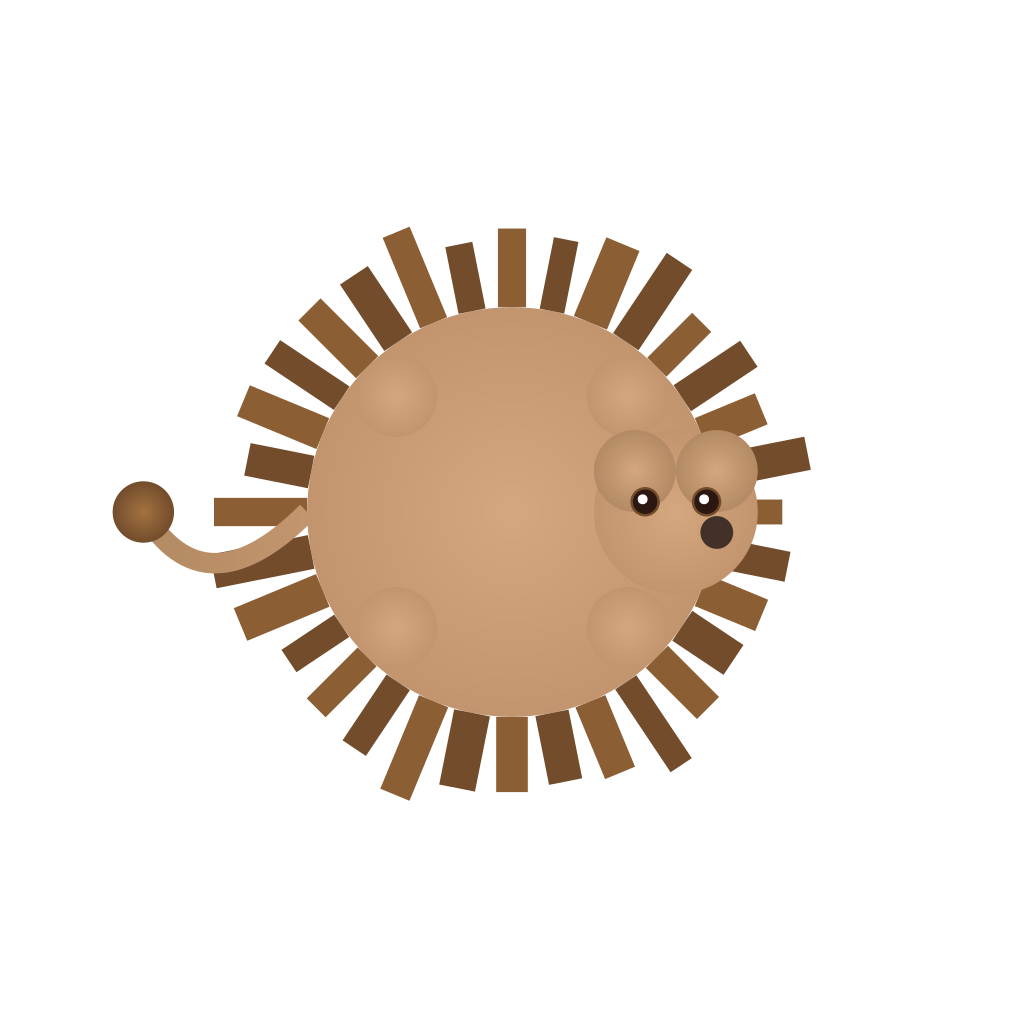
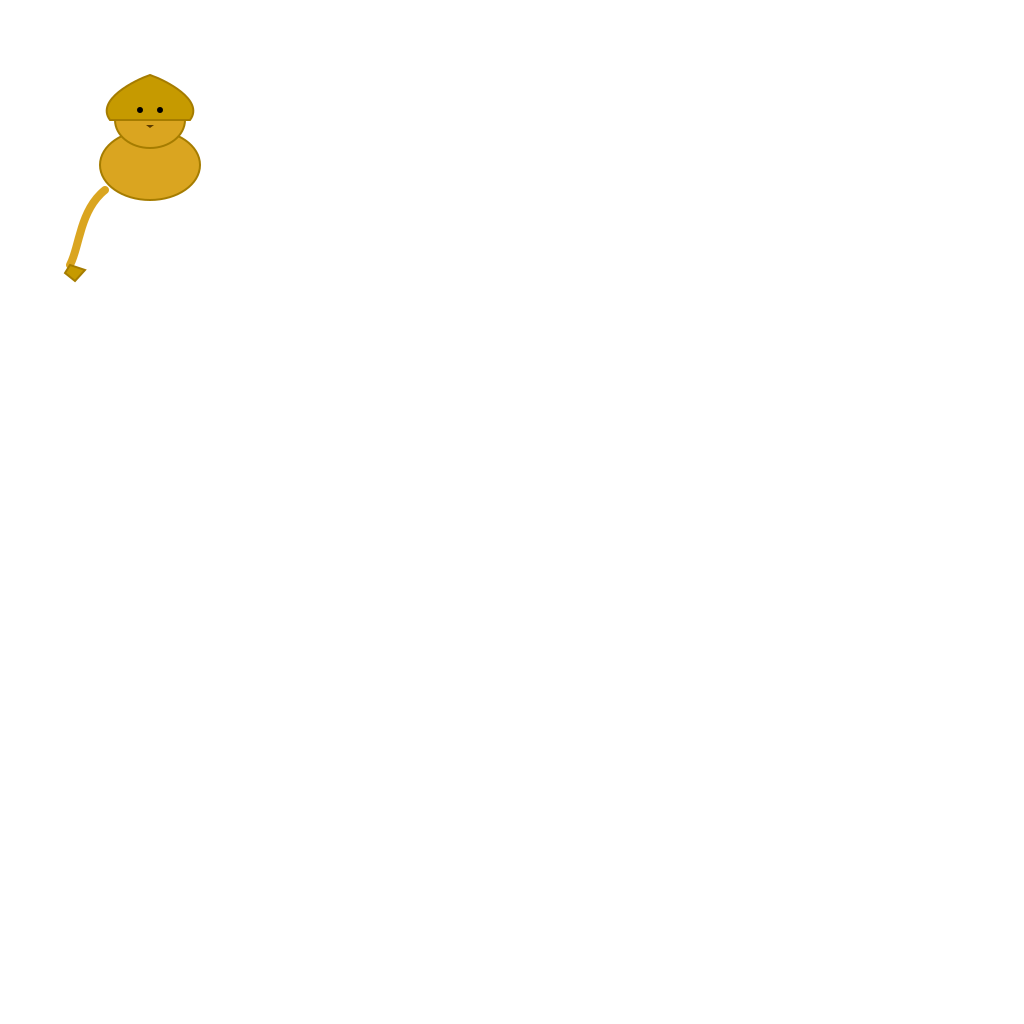
refactor TopDownLion asset; enhance rendering details, update dimensions, and improve style

Changed region(s): [[0.0938, 0.2188, 0.8125, 0.7812], [0.0625, 0.0625, 0.2188, 0.2812]]

diff --git a/tools/asset-generator/src/assets/top-down-lion/top-down-lion.ts b/tools/asset-generator/src/assets/top-down-lion/top-down-lion.ts
@@ -3,167 +3,110 @@ import { Asset } from '../assets-types';
 
 export const TopDownLion: Asset = {
   name: 'top-down-lion',
-  description: 'A top down view of a lion',
-  render: (ctx): void => {
-    // Constants for lion dimensions and positioning
-    const centerX = ctx.canvas.width / 2;
-    const centerY = ctx.canvas.height / 2;
-    const bodyRadius = Math.min(ctx.canvas.width, ctx.canvas.height) * 0.2;
+  description: `A top down view of a lion:
+- Head (circle)
+- Body
+- Tail
 
-    // Color palette with more variations
-    const colors = {
-      bodyMain: '#c2956e',
-      bodyLight: '#d4a77f',
-      bodyDark: '#b38a63',
-      maneMain: '#8b5e34',
-      maneDark: '#724c2b',
-      maneLight: '#a47241',
-      eyeColor: '#2c1810',
-      noseColor: '#433029',
-    };
+Style: cartoon
+Dimensions: fit within 300x300 square
+  `,
+  render: (ctx: CanvasRenderingContext2D): void => {
+    const centerX = 150;
+    const centerY = 150;
+    const headRadius = 35; // Increased head radius
+    const bodyWidth = 100;
+    const bodyHeight = 70;
+    const tailLength = 80;
 
-    // Draw the body (main circular shape) with gradient
-    const bodyGradient = ctx.createRadialGradient(centerX, centerY, 0, centerX, centerY, bodyRadius);
-    bodyGradient.addColorStop(0, colors.bodyLight);
-    bodyGradient.addColorStop(1, colors.bodyMain);
+    // Colors
+    const mainColor = 'goldenrod';
+    const darkColor = '#a57c00'; // Darker shade for outlines and details
+    const lightColor = '#f0d78d'; // Lighter shade for highlights
+    const maneColor = '#c69a00';
+    const noseColor = '#5c3c00'; // Distinct color for the nose
 
+    // Draw the body
     ctx.beginPath();
-    ctx.fillStyle = bodyGradient;
-    ctx.arc(centerX, centerY, bodyRadius, 0, Math.PI * 2);
+    ctx.ellipse(centerX, centerY + 15, bodyWidth / 2, bodyHeight / 2, 0, 0, 2 * Math.PI);
+    ctx.fillStyle = mainColor;
     ctx.fill();
-
-    // Draw the mane with more organic, varied strokes
-    for (let i = 0; i < 32; i++) {
-      const angle = (i * Math.PI * 2) / 32;
-      const maneLength = bodyRadius * (0.3 + Math.random() * 0.2); // Varied lengths
-      const x1 = centerX + Math.cos(angle) * bodyRadius;
-      const y1 = centerY + Math.sin(angle) * bodyRadius;
-      const x2 = centerX + Math.cos(angle) * (bodyRadius + maneLength);
-      const y2 = centerY + Math.sin(angle) * (bodyRadius + maneLength);
-
-      ctx.beginPath();
-      ctx.moveTo(x1, y1);
-      ctx.lineTo(x2, y2);
-      ctx.lineWidth = bodyRadius * (0.12 + Math.random() * 0.06); // Varied widths
-      ctx.strokeStyle = i % 2 === 0 ? colors.maneMain : colors.maneDark;
-      ctx.stroke();
-    }
-
-    // Draw the legs with gradient
-    const legPositions = [
-      { angle: -Math.PI / 4, offset: -1 }, // Front right
-      { angle: Math.PI / 4, offset: -1 }, // Front left
-      { angle: (-Math.PI * 3) / 4, offset: 1 }, // Back right
-      { angle: (Math.PI * 3) / 4, offset: 1 }, // Back left
-    ];
-
-    legPositions.forEach(({ angle }) => {
-      const legX = centerX + Math.cos(angle) * bodyRadius * 0.8;
-      const legY = centerY + Math.sin(angle) * bodyRadius * 0.8;
-
-      const legGradient = ctx.createRadialGradient(legX, legY, 0, legX, legY, bodyRadius * 0.2);
-      legGradient.addColorStop(0, colors.bodyLight);
-      legGradient.addColorStop(1, colors.bodyMain);
-
-      ctx.beginPath();
-      ctx.fillStyle = legGradient;
-      ctx.arc(legX, legY, bodyRadius * 0.2, 0, Math.PI * 2);
-      ctx.fill();
-    });
-
-    // Draw the tail with curved path and gradient
-    ctx.beginPath();
-    ctx.lineWidth = bodyRadius * 0.1;
-    const tailGradient = ctx.createLinearGradient(centerX - bodyRadius, centerY, centerX - bodyRadius * 1.8, centerY);
-    tailGradient.addColorStop(0, colors.bodyMain);
-    tailGradient.addColorStop(1, colors.bodyDark);
-    ctx.strokeStyle = tailGradient;
-    ctx.moveTo(centerX - bodyRadius, centerY);
-    ctx.quadraticCurveTo(centerX - bodyRadius * 1.5, centerY + bodyRadius * 0.5, centerX - bodyRadius * 1.8, centerY);
+    ctx.lineWidth = 2; // Thicker outline
+    ctx.strokeStyle = darkColor;
     ctx.stroke();
 
-    // Draw tail tuft with gradient
-    const tuftGradient = ctx.createRadialGradient(
-      centerX - bodyRadius * 1.8,
-      centerY,
-      0,
-      centerX - bodyRadius * 1.8,
-      centerY,
-      bodyRadius * 0.15,
+    // Draw the head (slightly oval)
+    ctx.beginPath();
+    ctx.ellipse(centerX, centerY - 30, headRadius, headRadius * 0.8, 0, 0, 2 * Math.PI);
+    ctx.fillStyle = mainColor;
+    ctx.fill();
+    ctx.lineWidth = 2; // Thicker outline
+    ctx.strokeStyle = darkColor;
+    ctx.stroke();
+
+     // Draw the mane (more organic shape)
+    ctx.fillStyle = maneColor;
+    ctx.beginPath();
+    ctx.moveTo(centerX - headRadius - 5, centerY - 30);
+    ctx.bezierCurveTo(
+        centerX - headRadius - 20, centerY - 50,
+        centerX - headRadius + 20 , centerY - 70,
+        centerX, centerY - 75
     );
-    tuftGradient.addColorStop(0, colors.maneLight);
-    tuftGradient.addColorStop(1, colors.maneDark);
-
-    ctx.beginPath();
-    ctx.fillStyle = tuftGradient;
-    ctx.arc(centerX - bodyRadius * 1.8, centerY, bodyRadius * 0.15, 0, Math.PI * 2);
-    ctx.fill();
-
-    // Draw the head with gradient
-    const headGradient = ctx.createRadialGradient(
-      centerX + bodyRadius * 0.8,
-      centerY,
-      0,
-      centerX + bodyRadius * 0.8,
-      centerY,
-      bodyRadius * 0.4,
+    ctx.bezierCurveTo(
+        centerX + headRadius - 20, centerY - 70,
+        centerX + headRadius + 20, centerY - 50,
+        centerX + headRadius + 5, centerY - 30
     );
-    headGradient.addColorStop(0, colors.bodyLight);
-    headGradient.addColorStop(1, colors.bodyMain);
+    ctx.closePath();
+    ctx.fill();
+    ctx.lineWidth = 2;
+    ctx.strokeStyle = darkColor;
+    ctx.stroke();
 
+    // Draw the eyes
     ctx.beginPath();
-    ctx.fillStyle = headGradient;
-    ctx.arc(centerX + bodyRadius * 0.8, centerY, bodyRadius * 0.4, 0, Math.PI * 2);
+    ctx.arc(centerX - 10, centerY - 40, 3, 0, 2 * Math.PI);
+    ctx.fillStyle = 'black';
     ctx.fill();
 
-    // Draw ears with gradient
-    const earSize = bodyRadius * 0.2;
-    [-1, 1].forEach((side) => {
-      const earX = centerX + bodyRadius * 0.8 + side * earSize;
-      const earY = centerY - earSize;
-
-      const earGradient = ctx.createRadialGradient(earX, earY, 0, earX, earY, earSize);
-      earGradient.addColorStop(0, colors.bodyLight);
-      earGradient.addColorStop(1, colors.bodyDark);
-
-      ctx.beginPath();
-      ctx.fillStyle = earGradient;
-      ctx.arc(earX, earY, earSize, 0, Math.PI * 2);
-      ctx.fill();
-    });
-
-    // Add facial features
-    const headCenterX = centerX + bodyRadius * 0.8;
-
-    // Eyes
-    [-1, 1].forEach((side) => {
-      const eyeX = headCenterX + side * bodyRadius * 0.15;
-      const eyeY = centerY - bodyRadius * 0.05;
-      const eyeSize = bodyRadius * 0.06;
-
-      // Eye shadow
-      ctx.beginPath();
-      ctx.fillStyle = colors.maneDark;
-      ctx.arc(eyeX, eyeY, eyeSize * 1.2, 0, Math.PI * 2);
-      ctx.fill();
-
-      // Eye
-      ctx.beginPath();
-      ctx.fillStyle = colors.eyeColor;
-      ctx.arc(eyeX, eyeY, eyeSize, 0, Math.PI * 2);
-      ctx.fill();
-
-      // Eye highlight
-      ctx.beginPath();
-      ctx.fillStyle = 'white';
-      ctx.arc(eyeX - eyeSize * 0.2, eyeY - eyeSize * 0.2, eyeSize * 0.4, 0, Math.PI * 2);
-      ctx.fill();
-    });
-
-    // Nose
     ctx.beginPath();
-    ctx.fillStyle = colors.noseColor;
-    ctx.arc(headCenterX + bodyRadius * 0.2, centerY + bodyRadius * 0.1, bodyRadius * 0.08, 0, Math.PI * 2);
+    ctx.arc(centerX + 10, centerY - 40, 3, 0, 2 * Math.PI);
+    ctx.fillStyle = 'black';
     ctx.fill();
+
+    // Draw the nose
+    ctx.beginPath();
+    ctx.moveTo(centerX - 4, centerY - 25);
+    ctx.lineTo(centerX + 4, centerY - 25);
+    ctx.lineTo(centerX, centerY - 22);
+    ctx.fillStyle = noseColor;
+    ctx.fill();
+
+    // Draw the tail (thicker and more curved)
+    ctx.beginPath();
+    ctx.moveTo(centerX - bodyWidth / 2 + 5, centerY + bodyHeight / 2 + 5);
+    ctx.bezierCurveTo(
+      centerX - bodyWidth / 2 - 20, centerY + bodyHeight / 2 + tailLength / 4 + 5,
+      centerX - bodyWidth / 2 - 20, centerY + bodyHeight / 2 + tailLength * 3/4,
+      centerX - bodyWidth / 2 - 30, centerY + bodyHeight / 2 + tailLength
+    );
+    ctx.lineWidth = 8; // Thicker tail
+    ctx.lineCap = 'round';
+    ctx.strokeStyle = mainColor;
+    ctx.stroke();
+
+    // Tail tuft (more volume)
+     ctx.beginPath();
+    ctx.moveTo(centerX - bodyWidth / 2 - 30, centerY + bodyHeight / 2 + tailLength);
+    ctx.lineTo(centerX - bodyWidth / 2 - 35, centerY + bodyHeight / 2 + tailLength + 8);
+    ctx.lineTo(centerX - bodyWidth / 2 - 25, centerY + bodyHeight / 2 + tailLength + 16);
+    ctx.lineTo(centerX - bodyWidth / 2 - 15, centerY + bodyHeight / 2 + tailLength + 5);
+    ctx.closePath();
+    ctx.fillStyle = maneColor;
+    ctx.fill();
+    ctx.lineWidth = 2;
+    ctx.strokeStyle = darkColor;
+    ctx.stroke();
   },
 };
